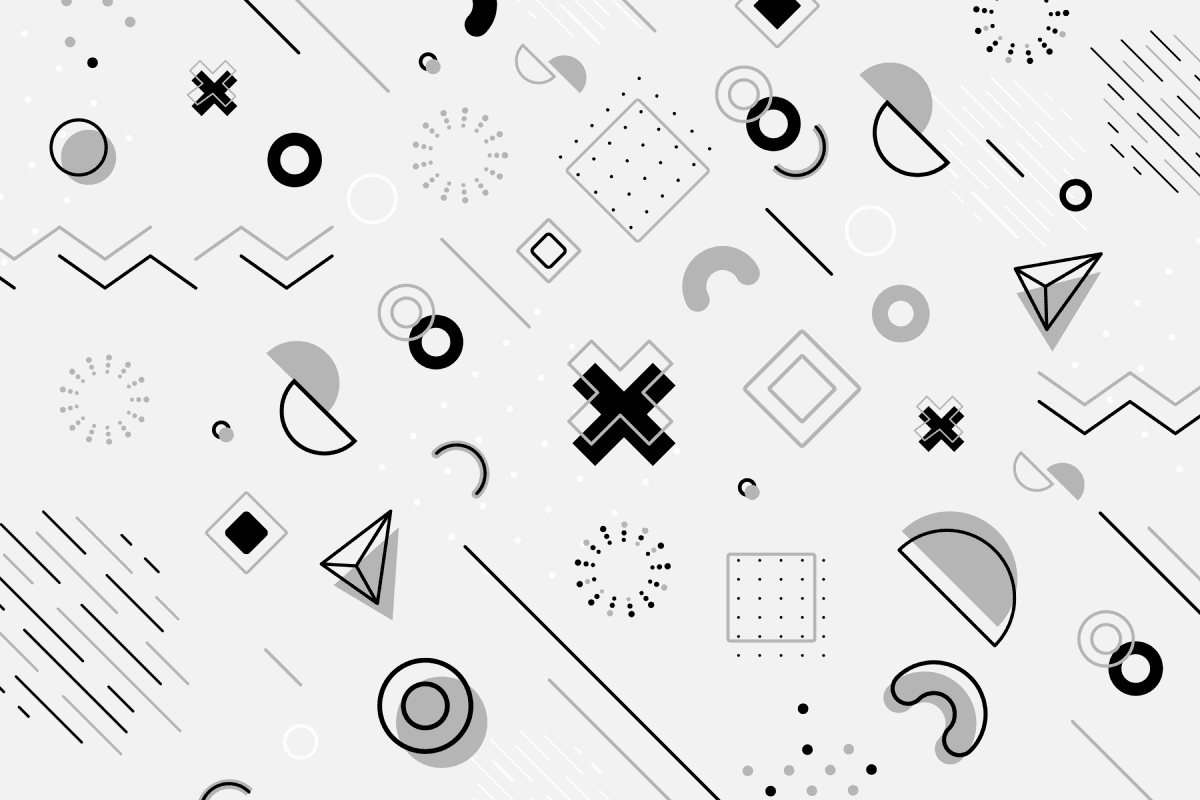
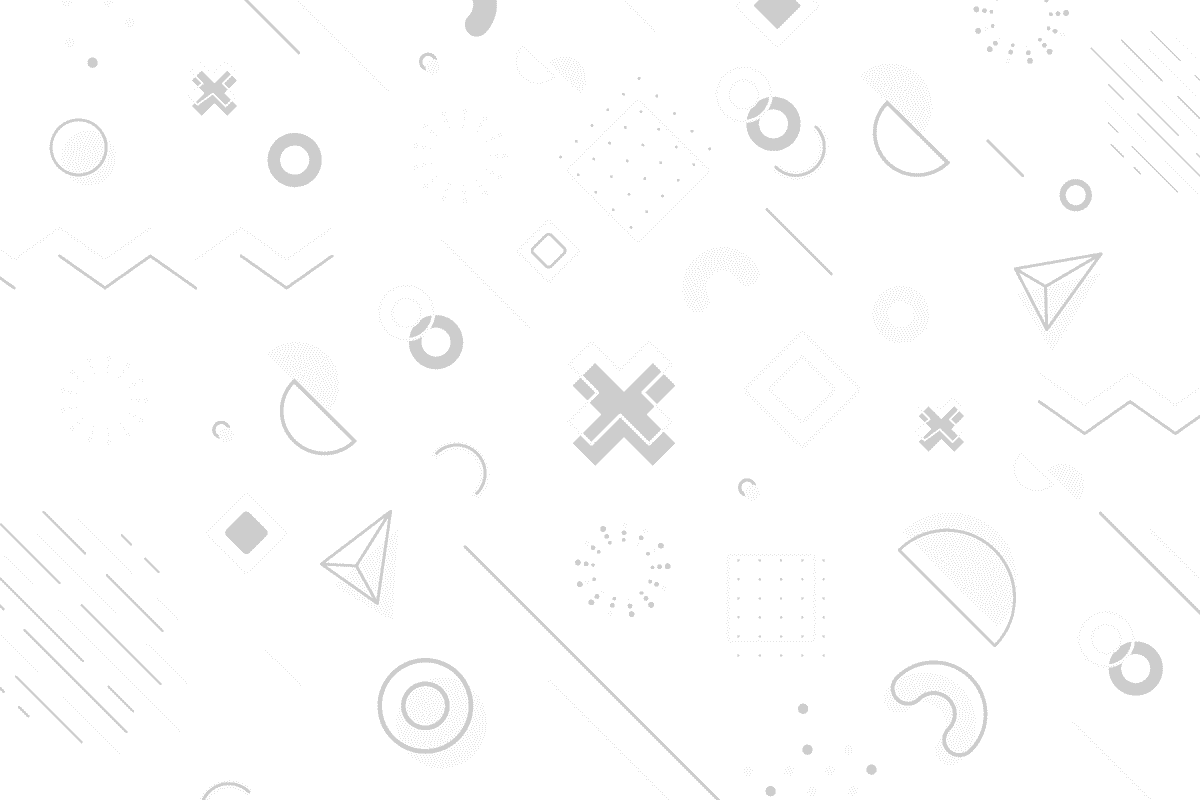
bg image improvements

diff --git a/Frontend/src/widgets/Messages/Messages.tsx b/Frontend/src/widgets/Messages/Messages.tsx
@@ -108,20 +108,24 @@ const Messages = forwardRef(function Messages(
       <ul>
         {messages.map((message, index, arr) => {
           const isLastMessage = index === arr.length - 1
-          const isReplyed = Object.keys(message.reply).length !== 0
+          const isReplied = Object.keys(message.reply).length !== 0
           const animation = message.me ? { x: [50, 0] } : { x: [-50, 0] }
           const messageClassName = cn(
             'p-2 my-2 rounded-lg w-2/3 break-all transition-colors delay-300 duration-[3000ms]',
             {
               'order-first': !message.me,
               'bg-alert': !message.alerted,
-              'bg-background': message.alerted,
+              'bg-background-section': message.alerted,
             }
           )
 
           return (
             <div className="flex justify-between items-center" key={index}>
-              <Reply className={cn({ '-scale-x-100': !message.me })} />
+              <Reply
+                className={cn('stroke-muted', {
+                  '-scale-x-100': !message.me,
+                })}
+              />
               <ContextMenu>
                 <ContextMenuTrigger asChild>
                   <motion.li
@@ -140,7 +144,7 @@ const Messages = forwardRef(function Messages(
                     animate={isLastMessage ? animation : {}}
                     className={messageClassName}
                   >
-                    {isReplyed && (
+                    {isReplied && (
                       <button
                         onClick={(e) => messageReplyHandler(e)}
                         className="flex flex-col text-accent border-l border-accent pl-2 text-sm w-full"

diff --git a/Frontend/src/widgets/MyForm.tsx b/Frontend/src/widgets/MyForm.tsx
@@ -25,6 +25,8 @@ const MyForm = forwardRef(function MyForm(
   const [value, setValue] = useState('')
   const messages = useAppSelector((state) => state.messages.value)
   const reply = useAppSelector((state) => state.reply.value)
+  const isConnected = useAppSelector((state) => state.isConnected.value)
+  const isWaiting = useAppSelector((state) => state.isWaiting.value)
   const dispatch = useAppDispatch()
   const previousMessageCount = useRef(messages.length)
 
@@ -78,7 +80,7 @@ const MyForm = forwardRef(function MyForm(
             animate={{ y: 0, opacity: 1 }}
             exit={{ x: 250, opacity: 0 }}
             transition={{ type: 'spring', bounce: 0 }}
-            className="flex justify-between items-center w-full gap-5 bg-background/90 rounded-lg p-2 text-sm"
+            className="flex justify-between items-center w-full gap-5 bg-background-section/90 rounded-lg p-2 text-sm"
           >
             <div className="flex justify-center items-center gap-2">
               <Reply />
@@ -103,10 +105,11 @@ const MyForm = forwardRef(function MyForm(
       <div className="flex justify-between gap-5 w-full">
         <input
           ref={ref}
-          className="rounded-lg px-2 w-full bg-background"
+          className="rounded-lg px-2 w-full bg-background-section"
           value={value}
           placeholder="Write a message"
           onChange={(e) => setValue(e.target.value)}
+          disabled={!isConnected || isWaiting}
         />
 
         <button

diff --git a/Frontend/tailwind.config.ts b/Frontend/tailwind.config.ts
@@ -9,6 +9,8 @@ export default {
         background: 'hsl(var(--color-background) / <alpha-value>)',
         foreground: 'hsl(var(--color-foreground) / <alpha-value>)',
         'accent-mild': 'hsl(var(--color-accent-mild) / <alpha-value>)',
+        'background-section':
+          'hsl(var(--color-background-section) / <alpha-value>)',
         accent: 'hsl(var(--color-accent) / <alpha-value>)',
         'accent-hover': 'hsl(var(--color-accent-hover) / <alpha-value>)',
         muted: 'hsl(var(--color-muted) / <alpha-value>)',

diff --git a/Frontend/src/pages/Main/Main.tsx b/Frontend/src/pages/Main/Main.tsx
@@ -9,7 +9,7 @@ export default function Main({ className, children }: IMain) {
   return (
     <main className={cn('flex flex-col', className)}>
       <div
-        className="absolute right-0 top-0 h-full w-full bg-cover bg-left mix-blend-difference contrast-75 invert brightness-125"
+        className="absolute right-0 top-0 h-full w-full bg-cover bg-left mix-blend-difference invert"
         style={{ backgroundImage: `url(${bgMain})` }}
       ></div>
       {children}
